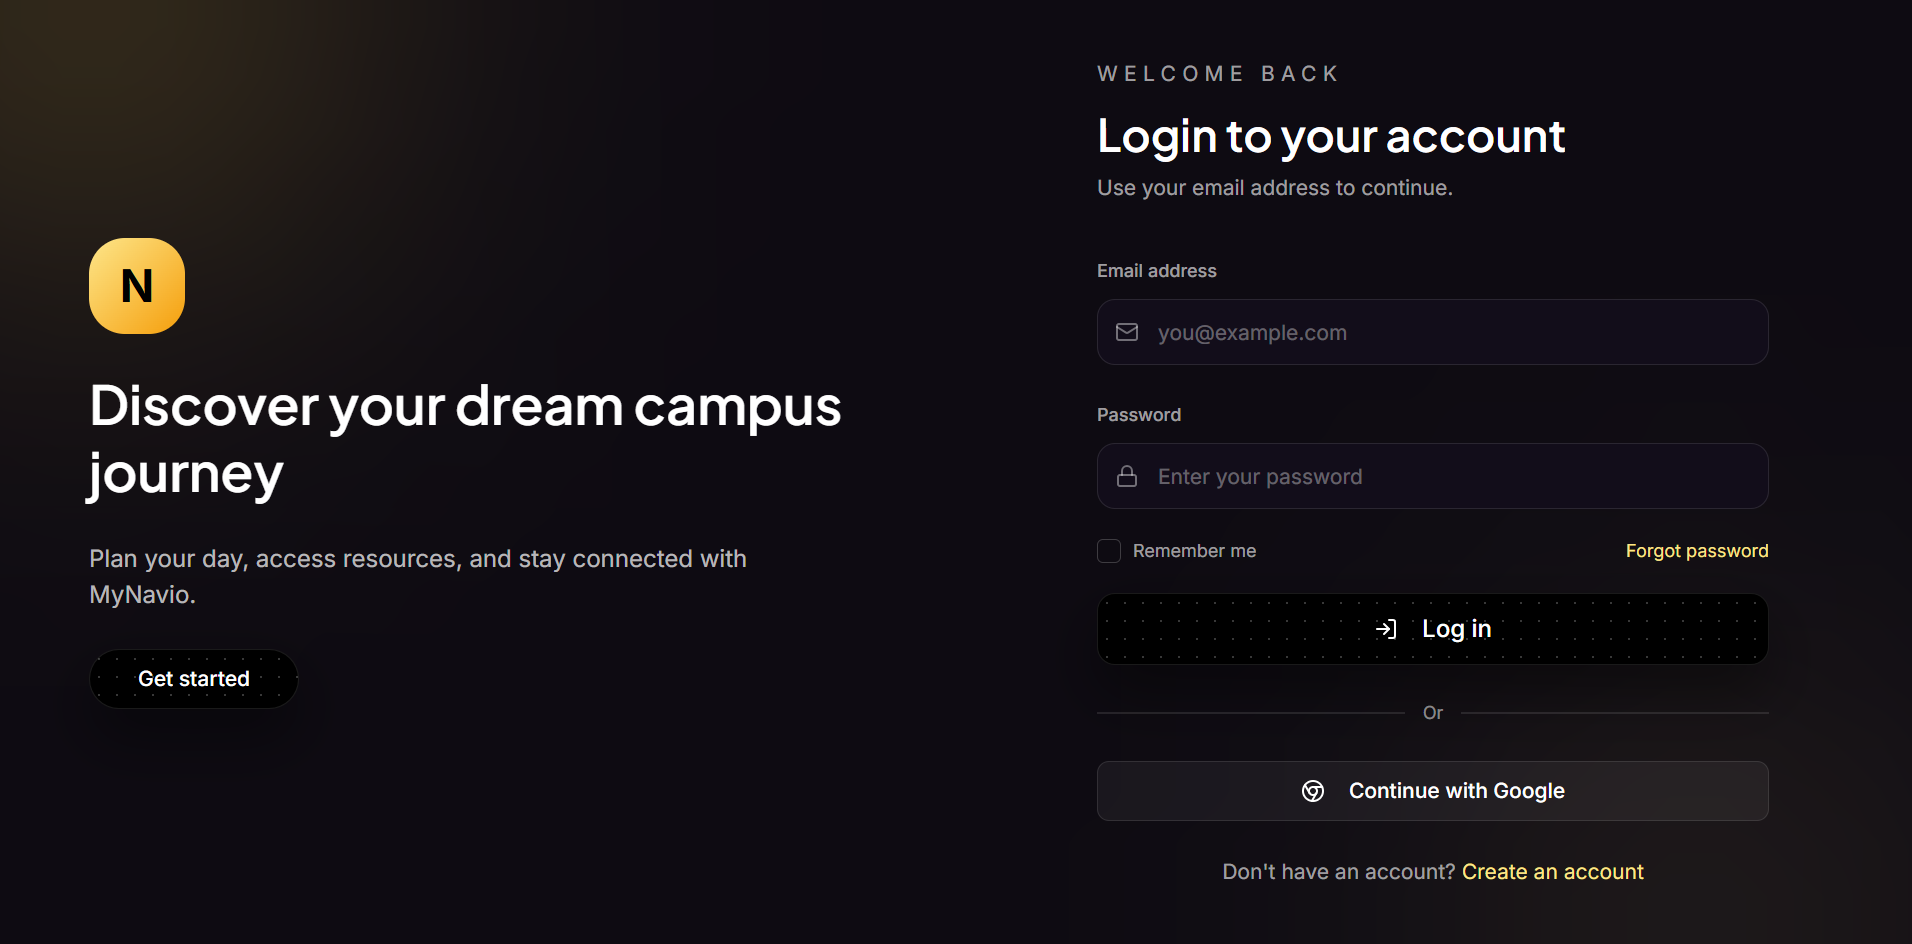
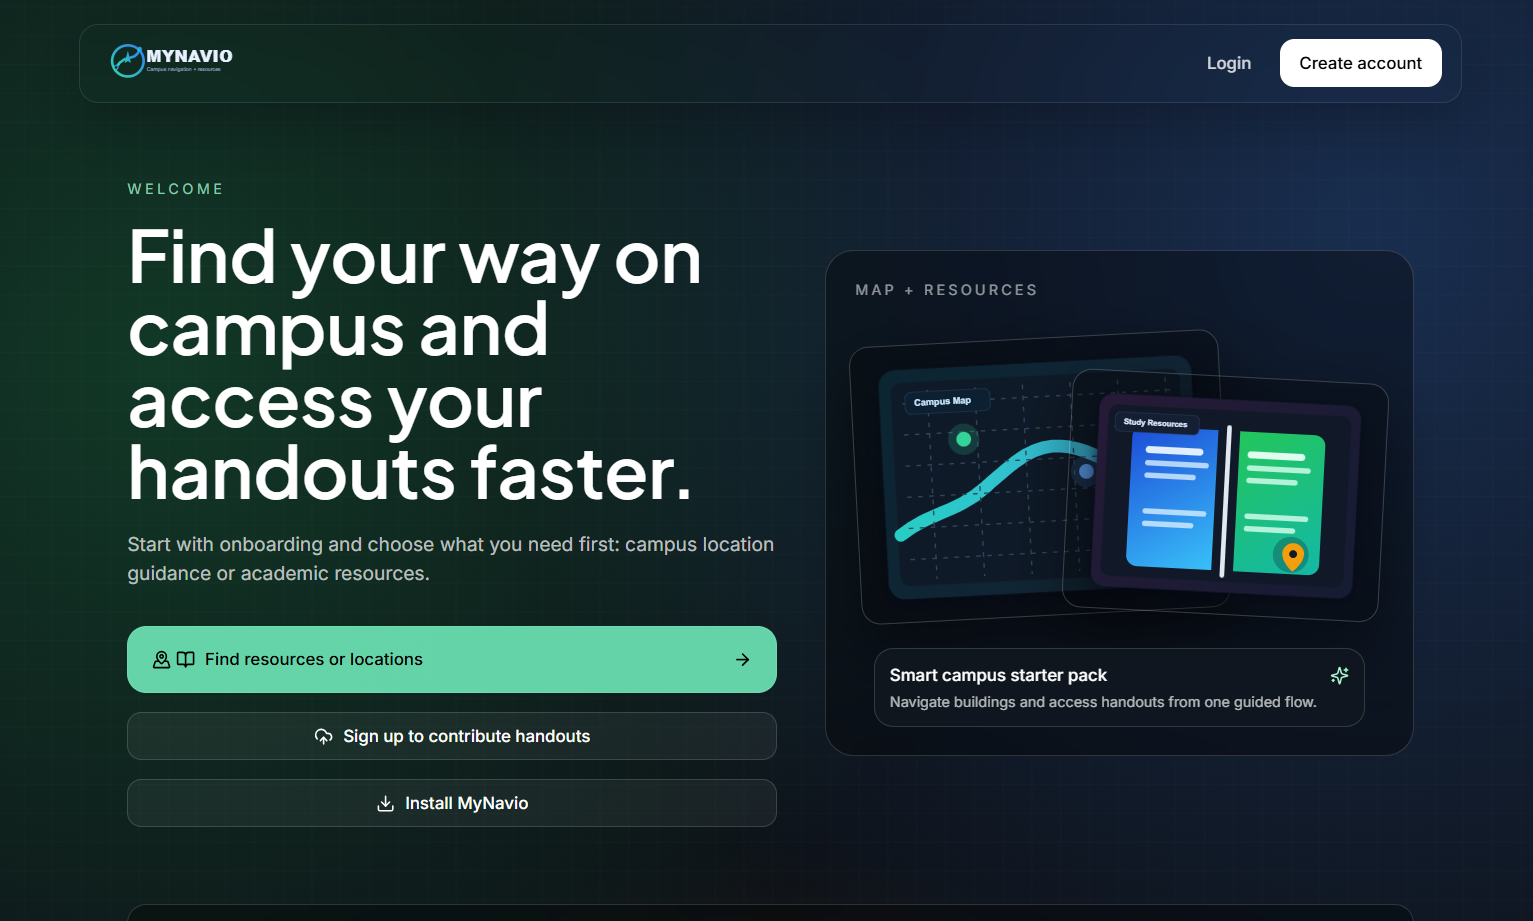
Fix achievements expansion invisibility bug and add mobile typography scale rules

diff --git a/style.css b/style.css
@@ -1588,6 +1588,36 @@ body {
         padding: 4.25rem 0;
     }
 
+    body {
+        font-size: 0.88rem;
+    }
+
+    .section-title {
+        font-size: 1.75rem;
+    }
+
+    .section-kicker {
+        font-size: 0.76rem;
+    }
+
+    .about-card h3,
+    .fact-card h4,
+    .skill-card h3,
+    .achievement-card h3,
+    .education-card h3,
+    .timeline-item-title {
+        font-size: 1.1rem;
+    }
+
+    .about-card p,
+    .fact-card p,
+    .skill-card p,
+    .achievement-card p,
+    .education-card p,
+    .timeline-item-bullets li {
+        font-size: 0.82rem;
+    }
+
     .hero-title {
         font-size: clamp(2.05rem, 11vw, 2.8rem);
     }

diff --git a/script.js b/script.js
@@ -768,6 +768,7 @@ function renderAchievements(achievements) {
         const card = document.createElement('article');
         card.className = 'achievement-card';
         card.setAttribute('data-reveal', '');
+        card.classList.add('is-visible');
 
         const title = document.createElement('h3');
         title.textContent = achievement.title || 'Untitled Achievement';
@@ -816,6 +817,7 @@ function renderEducation(educationItems) {
         const card = document.createElement('article');
         card.className = 'education-card';
         card.setAttribute('data-reveal', '');
+        card.classList.add('is-visible');
 
         const icon = document.createElement('i');
         icon.className = item.icon || 'fas fa-graduation-cap';